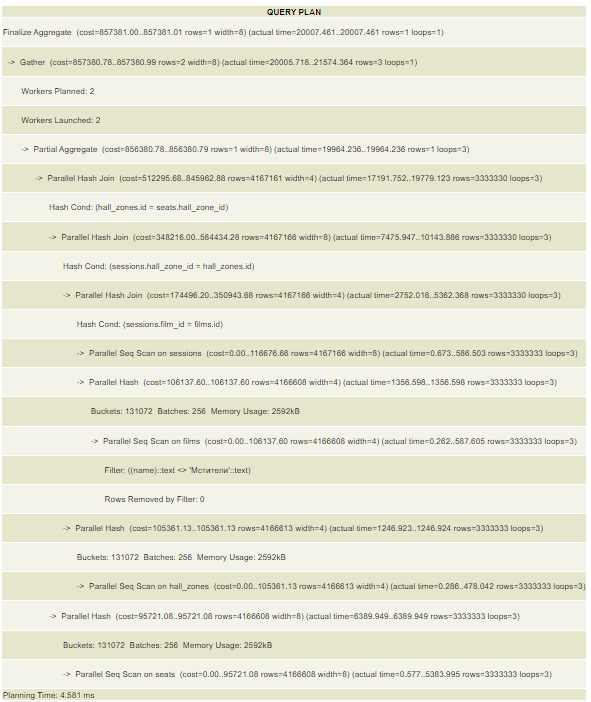
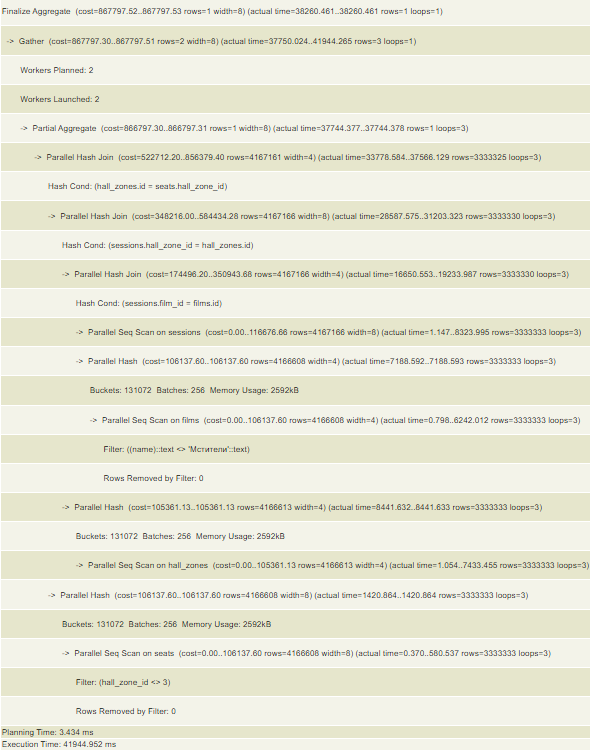
'finish'

diff --git a/explain.md b/explain.md
@@ -107,7 +107,7 @@ WHERE price < 300;
 #### план на БД до 10000000 строк
 ![alt text](md_screenshots/5_10000000.png)
 
-### 6. Получение кол-ва мест в зонах залов, в которых показывают не фильм "Мстители"
+### 6. Получение кол-ва мест в зонах залов, в которых показывают не фильм "Мстители" и зона зала не имеет id 3
 #### запрос
 ```
 EXPLAIN ANALYZE 
